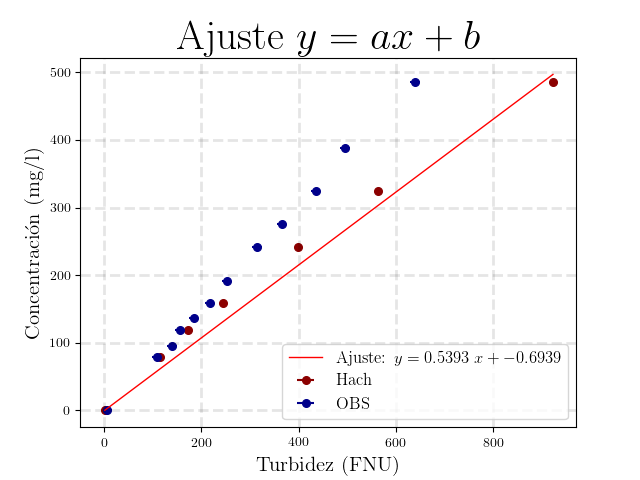
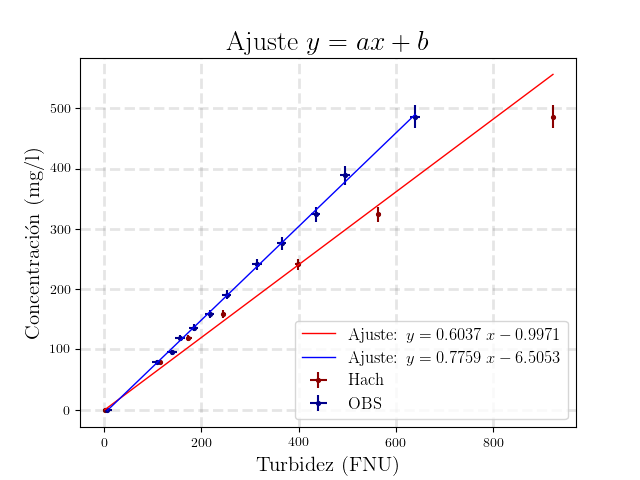
Correcciones menores.

diff --git a/ConcentrationTurbidity-OBS.py b/ConcentrationTurbidity-OBS.py
@@ -31,16 +31,16 @@ archivo = 'ConcentrationTurbidity-OBS'
 FILE=path+'/'+archivo+'.csv'
 data = pd.read_csv(FILE)
 
-x = pd.DataFrame(data, columns= ['Sample 1 (FNU)','Sample 2 (FNU)','Sample 3 (FNU)'])
+x = data[['Sample 1 (FNU)','Sample 2 (FNU)','Sample 3 (FNU)']]
 x = x.dropna(axis=0)
 x = np.array(x)
 
-x_Hach=np.zeros(len(x))
-x_Hach_err=np.zeros((2,len(x)))
-x_Hach_err_tot=np.zeros(len(x))
+x_Hach = np.zeros(len(x))
+x_Hach_err = np.zeros((2,len(x)))
+x_Hach_err_tot = np.zeros(len(x))
 
 y_Hach = np.array([486.0606061, 324.040404, 241.0703812, 158.9673315, 118.9453447, 79.11100286, 0]) # A mano. Ya fue.
-y_Hach_err = 0.04*y_Hach
+y_Hach_err = 0.04*y_Hach # 4% de error.
 
 
 # OBS:
@@ -78,6 +78,7 @@ def lineal(p0,x):
     return a*x
 
 def Ajustar(function,x,y,x_err,y_err):
+    print('Ajuste:\t',function.__name__,'\n')
     # Create a model for fitting.
     model = Model(function)
     # Create a RealData object using our initiated data from above.
@@ -88,12 +89,14 @@ def Ajustar(function,x,y,x_err,y_err):
     out = odr.run()
     # Use the in-built pprint method to give us results.
     out.pprint()
-    
+    print(40*'-')
     return out
 
+print(40*'*'+'\n\t\tHACH\n'+40*'*')
 fit_Hach_offset = Ajustar(lineal_con_offset,x_Hach,y_Hach,x_Hach_err_tot,y_Hach_err)
 fit_OBS_offset = Ajustar(lineal_con_offset,x_OBS,y_OBS,x_OBS_err,y_OBS_err)
 
+print(40*'*'+'\n\t\tOBS\n'+40*'*')
 fit_Hach = Ajustar(lineal,x_Hach,y_Hach,x_Hach_err_tot,y_Hach_err)
 fit_OBS = Ajustar(lineal,x_OBS,y_OBS,x_OBS_err,y_OBS_err)
 
@@ -114,10 +117,10 @@ y_fit_OBS = lineal(fit_OBS.beta, x_fit_OBS)
 # Gráfico del ajuste ax+b:
 plt.figure()
 
-plt.errorbar(x_Hach, y_Hach, xerr=x_Hach_err, yerr=y_Hach_err, fmt='o',color='darkred', label=r'Hach', ms=5.5, zorder=0)
+plt.errorbar(x_Hach, y_Hach, xerr=x_Hach_err, yerr=y_Hach_err, fmt='.',color='darkred', label=r'Hach', ms=5.5, zorder=0)
 plt.plot(x_fit_Hach, y_fit_Hach_offset, color='red', label=r'Ajuste: $y = %.4f \; x %.4f $'%(fit_Hach_offset.beta[0],fit_Hach_offset.beta[1]), lw=1, zorder=4)
 
-plt.errorbar(x_OBS, y_OBS, xerr=x_OBS_err, yerr=y_OBS_err, fmt='o', color='darkblue', label=r'OBS', ms=5.5, zorder=0)
+plt.errorbar(x_OBS, y_OBS, xerr=x_OBS_err, yerr=y_OBS_err, fmt='.', color='darkblue', label=r'OBS', ms=5.5, zorder=0)
 plt.plot(x_fit_OBS, y_fit_OBS_offset, color='blue', label=r'Ajuste: $y = %.4f \; x %.4f $'%(fit_OBS_offset.beta[0],fit_OBS_offset.beta[1]), lw=1, zorder=4)
 
 
